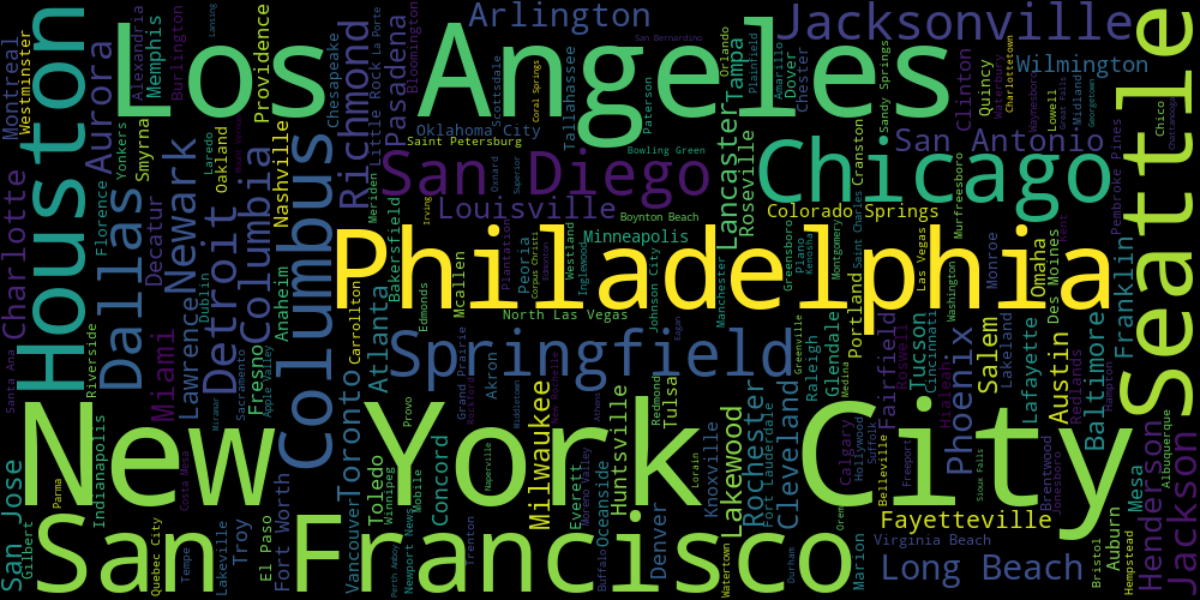
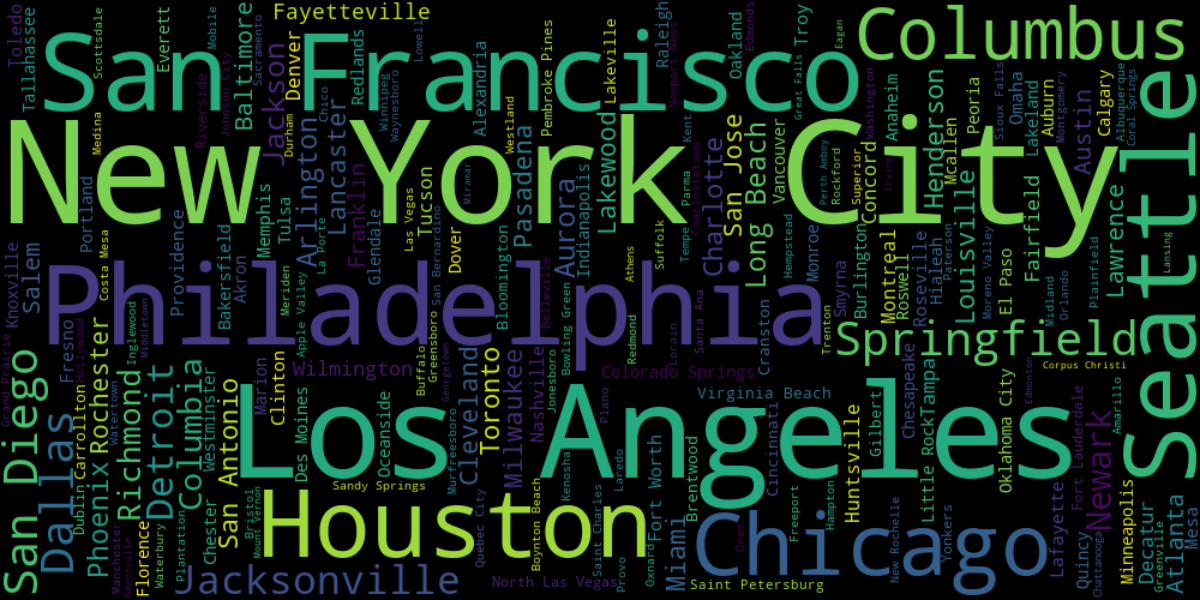
Final Commit

diff --git a/style.css b/style.css
@@ -1,0 +1,36 @@
+/* styles.css */
+.stContainer {
+  background-color: #1e1e1e;
+  border-radius: 15px;
+  padding: 20px;
+  box-shadow: 0 4px 8px rgba(0, 0, 0, 0.3);
+}
+
+.stMetric {
+  background-color: #2d2d2d;
+  border-radius: 10px;
+  padding: 20px;
+  box-shadow: 0 2px 4px rgba(0, 0, 0, 0.2);
+  text-align: center;
+  color: white;
+}
+
+.stMetric label {
+  font-size: 16px;
+  font-weight: bold;
+  color: #ffffff;
+  display: block; 
+  text-align: center;
+}
+
+.stMetric value {
+  font-size: 24px;
+  font-weight: bold;
+  color: #4caf50;
+}
+
+.stMetric delta {
+  font-size: 14px;
+  color: #ff6f61;
+}
+

diff --git a/myapp.py b/myapp.py
@@ -1,7 +1,5 @@
 import streamlit as st
 import pandas as pd
-import yfinance as yf
-import numpy as np
 import plotly.express as px
 import matplotlib.pyplot as plt
 from wordcloud import WordCloud
@@ -14,6 +12,19 @@ st.set_page_config(page_title = "Visualization Project",
                    page_icon = ":bar_chart:",
                    layout = "wide"
 )
+
+
+
+
+def load_css(file_path):
+    with open(file_path, "r") as f:
+        css = f"<style>{f.read()}</style>"
+        st.markdown(css, unsafe_allow_html=True)
+
+# Load the CSS file
+load_css(r"C:\Users\shish\OneDrive\Desktop\Project\style.css")
+
+
 
 # Loading the dataset
 @st.cache_data
@@ -75,20 +86,74 @@ total_customers = int(filtered_data['Customer Name'].nunique())
 total_products = int(filtered_data['Product Name'].nunique())
 average_shipping_time = filtered_data['Shipping Time'].mean()
 
-def calculateChange():
-      n = year.count()
 
-      #Grouping By Year
-      filtered_data['Year'] = filtered_data['Order Date'].dt.year
-      group_by_year = filtered_data.groupby('Year')
-      sales_by_year = group_by_year['Sales'].sum()
+# Fuction to calculate the change in sales and profit after each year
+def calculateChange(years_selected):
 
-      sales_by_year = sales_by_year.reset_index()
+      # Grouping the data frame to find the change in sales and profit after each year
+      group_by_year = data.groupby('Year').agg({'Sales' : 'sum', 'Profit' : 'sum'}).reset_index()
 
+      group_by_year['Sales Diff'] = group_by_year['Sales'].diff()
+      group_by_year['Profit Diff'] = group_by_year['Profit'].diff()
+
+      group_by_year['Sales Diff'] = group_by_year['Sales Diff'].fillna(0)
+      group_by_year['Profit Diff'] = group_by_year['Profit Diff'].fillna(0)
+
+      salesChange2022 = group_by_year.loc[group_by_year['Year'] == 2022, 'Sales Diff'].values[0]
+      salesChange2023 = group_by_year.loc[group_by_year['Year'] == 2023, 'Sales Diff'].values[0]
+      salesChange2024 = group_by_year.loc[group_by_year['Year'] == 2024, 'Sales Diff'].values[0]
+
+      profitChange2022 = group_by_year.loc[group_by_year['Year'] == 2022, 'Profit Diff'].values[0]
+      profitChange2023 = group_by_year.loc[group_by_year['Year'] == 2023, 'Profit Diff'].values[0]
+      profitChange2024 = group_by_year.loc[group_by_year['Year'] == 2024, 'Profit Diff'].values[0]
+
+
+      if not years_selected:
+            return 0, 0
+
+      n = len(years_selected)
+
+      selected_year = max(years_selected)
+
+      salesChange = 0
+      profitChange = 0
+
+      if (n == 1):
+            if (selected_year == 2024):
+                  salesChange = salesChange2024
+                  profitChange = profitChange2024
+                  
+
+            elif (selected_year == 2023):
+                  salesChange = salesChange2023
+                  profitChange = profitChange2023
+                  
+            
+            elif (selected_year == 2022):
+                  salesChange = salesChange2022
+                  profitChange = profitChange2022
+                  
+
+            elif (selected_year == 2021):
+                  salesChange = 0
+                  salesChange = 0
+      
+      elif(n > 1):
+            return 0,0
+    
+      salesChange = int(salesChange/1000)
+      profitChange = int(profitChange/1000)
+
+      return salesChange, profitChange
+      
+
+# Calling the fucntion to calculate the change
+salesChange, profitChange = calculateChange(year)
 
 
 # Defining conainer for KPIs
 con1 = st.container()
+
 
 with con1:
 
@@ -105,18 +170,18 @@ with con1:
                               display_sales = int(total_sales / 1000)
                               st.metric(label = "Total Sales", value = f"${display_sales} K")
             else:
-                  st.metric(label = "Total Sales", value = f"${total_sales} K", delta = "200 K")
+                  st.metric(label = "Total Sales", value = f"${total_sales} K")
 
       with col2:
             if total_profit > 0:
                   if total_profit > 999999:
                         display_profit = total_profit / 100000
-                        st.metric("Total Profit", f"${display_profit:,.2f} M")
+                        st.metric("Total Profit", value = f"${display_profit:,.2f} M")
 
                   else:
                         if total_profit > 999:
                               display_profit = int(total_profit / 1000)
-                              st.metric("Total Profit", f"${display_profit} K")
+                              st.metric("Total Profit", value = f"${display_profit} K")
             
             else:
                   st.metric("Total Profit", f"${total_profit} K")
@@ -128,10 +193,12 @@ with con1:
             st.metric("Total Products", f"{total_products}")
 
       with col5:
-            st.metric("Average Shipping Time", f"{average_shipping_time:.2f} days")
+            st.metric("Average Shipping Time", f"{average_shipping_time:.2f} Days")
 
 
 st.markdown("---")
+
+
 
 
 
@@ -152,7 +219,13 @@ choropleth = px.choropleth(
       scope = 'usa',
       color = 'Sales',
       color_continuous_scale = 'Viridis',
-      title = "Sales by State/Province in the USA and Canda"
+      title = "Sales By State/Province"
+)
+
+choropleth.update_layout(
+    title_font=dict(
+        size=36  # Change this value to set your desired font size
+    )
 )
 
 con2 = st.container()
@@ -162,12 +235,20 @@ with con2:
       col1, col2 = st.columns(2)
 
       with col1:
-           st.header("Bar Chart")
+           st.header("Bar Chart (Sales Vs Region)")
            st.bar_chart(sales_by_region, x_label = "Region", y_label = "Sales")
      
       with col2:
            st.plotly_chart(choropleth)
             
+
+
+
+
+# Horizontal Bar Chart
+# Grouping By Sub-Category
+group_by_sub_category = filtered_data.groupby('Sub-Category')
+sales_by_sub_category = group_by_sub_category['Sales'].sum()
 
 
 
@@ -179,17 +260,7 @@ sales_by_year = group_by_year['Sales'].sum()
 sales_by_year = sales_by_year.reset_index()
 sales_by_year['Year'] = sales_by_year['Year'].astype(str) 
 
-# Donut Chart
-# Grouping By Sub-Category
-group_by_sub_category = filtered_data.groupby('Sub-Category')
-sales_by_sub_category = group_by_sub_category['Sales'].sum()
 
-# sales_by_sub_category = sales_by_sub_category.reset_index()
-
-donutChart = alt.Chart(sales_by_sub_category).mark_arc(innerRadius = 50).encode(
-            theta = alt.Theta(field = 'Sales', type = 'quantitative'),
-            color = alt.Color(field = 'Sub-Category', type = 'nominal')
-)
 
 con3 = st.container()
 with con3:
@@ -197,27 +268,20 @@ with con3:
 
      with col1:
             st.header("Horizontal Bar Chart")
-            # st.altair_chart(donutChart, use_container_width = True)
-            st.bar_chart(sales_by_sub_category.T, horizontal = True)
+            st.bar_chart(sales_by_sub_category.T, horizontal = True, x_label = "Sales", y_label = "Sub-Category")
             
 
      with col2:
-            st.header("Line Chart")
+            st.header("Line Chart (Sales Vs Year)")
             st.line_chart(sales_by_year, x = 'Year', y = 'Sales', x_label = 'Year', y_label = 'Sales')
 
 
 
-# Horizontal bar Chart
-# Grouping by category
-# group_by_category = filtered_data.groupby('Category')
-# sales_by_category = group_by_category['Sales'].sum()
-
-# with col1:
-#       st.header("Horizontal Bar Chart")
-#       st.bar_chart(sales_by_category.T, horizontal = True)
 
 
-con4 = st.container()
+
+
+
 
 # Grouped Bar Chart
 group_by_year_category = filtered_data.groupby(['Year', 'Category'])
@@ -270,6 +334,8 @@ donutChart = alt.Chart(profit_by_season).mark_arc(innerRadius = 50).encode(
             title = 'Profit By Season'
 )
 
+con4 = st.container()
+
 with con4:
 
       col1, col2 = st.columns(2)
@@ -294,21 +360,7 @@ scatter_plot = alt.Chart(filtered_data).mark_circle(size=60).encode(
 
 
 
-# con5 = st.container()
 
-# with con5:
-
-#       col1, col2 = st.columns(2)
-
-#       with col1:
-            # plt.figure(figsize=(10, 6))
-            # sns.scatterplot(data=filtered_data, x='Discount', y='Profit', jitter = True)
-            # plt.title('Discount vs. Profit')
-            # plt.xlabel('Discount (%)')
-            # plt.ylabel('Profit ($)')
-            # plt.show()
-            # st.pyplot(plt)
-            # st.altair_chart(scatter_plot, use_container_width = True)
 
 
 # WordCloud
@@ -331,11 +383,11 @@ ax.axis("off")
 plt.gca().set_position([0, 0, 1, 1])  # Fill the entire figure canvas
 
 
-# # Saving the wordcloud
+# Saving the wordcloud
 plt.savefig("wordcloud.png", format="png", bbox_inches="tight", pad_inches=0, facecolor="black")
 image = Image.open("wordcloud.png")
 
 with con5:
-     st.header("Word Cloud")
+     st.header("Word Cloud (Most Frequent Cities)")
 #      st.pyplot(fig, clear_figure = True)
      st.image(image, use_container_width=True)
